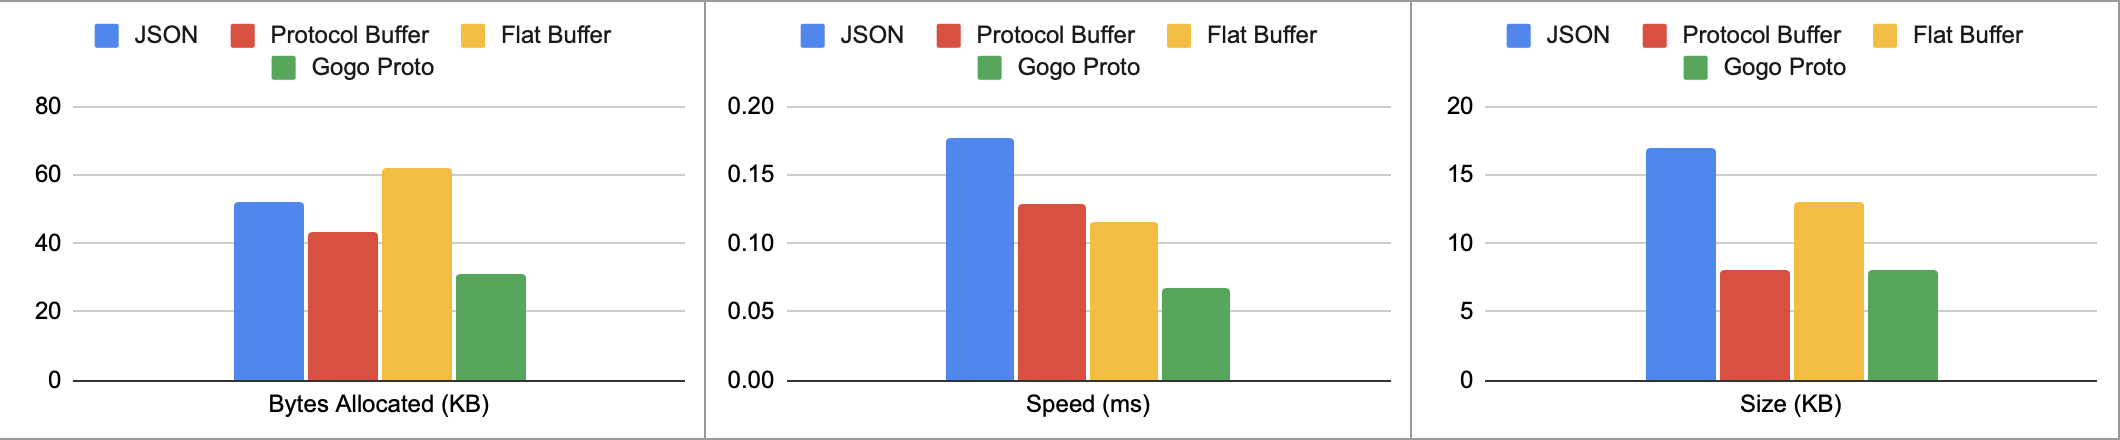
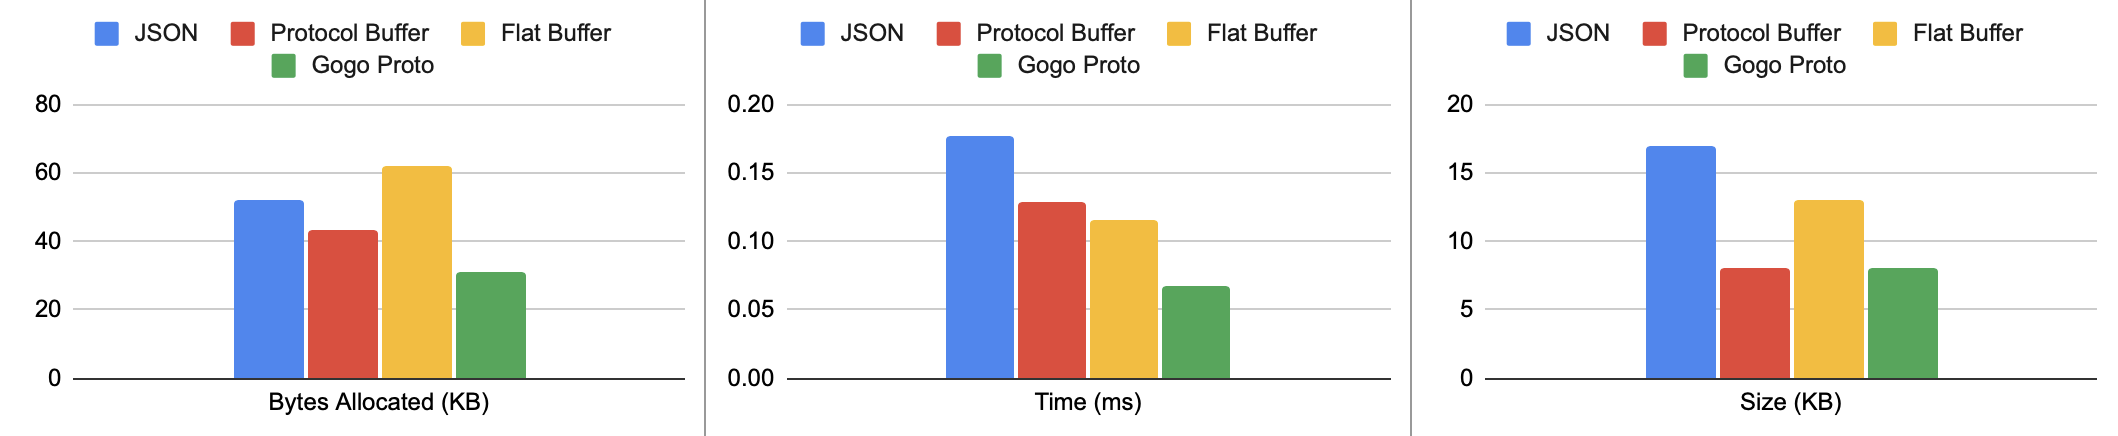
updating img resources

diff --git a/README.md b/README.md
@@ -35,7 +35,7 @@ For each scenario is run under 3 levels of complexity in a computer with cpu Int
 **Level 1**
 
 ```
-BenchmarkAllocationNativeL1-4             354464              3442 ns/op            1075 B/op         14 allocs/op
+BenchmarkAllocationJSONL1-4               354464              3442 ns/op            1075 B/op         14 allocs/op
 BenchmarkAllocationProtoL1-4              467773              2188 ns/op            1088 B/op         15 allocs/op
 BenchmarkAllocationFBSL1-4                697542              1690 ns/op            1304 B/op         10 allocs/op
 BenchmarkMarshalGogoProtoL1-4             1244660             944.4 ns/op           627 B/op          9 allocs/op
@@ -46,8 +46,8 @@ BenchmarkMarshalGogoProtoL1-4             1244660             944.4 ns/op       
 
 **Level 2**
 ```
-BenchmarkAllocationNativeL2-4               6504            177418 ns/op           52443 B/op        619 allocs/op
-BenchmarkAllocationProtoL2-4                9921            128793 ns/op           43157 B/op        717 allocs/op
+BenchmarkAllocationJSONL2-4                6504            177418 ns/op           52443 B/op        619 allocs/op
+BenchmarkAllocationProtoL2-4               9921            128793 ns/op           43157 B/op        717 allocs/op
 BenchmarkAllocationFBSL2-4                 10000            116492 ns/op           62473 B/op        326 allocs/op
 BenchmarkMarshalGogoProtoL2-4              17931             67348 ns/op           31112 B/op        433 allocs/op
 ```
@@ -58,7 +58,7 @@ BenchmarkMarshalGogoProtoL2-4              17931             67348 ns/op        
 **Level 3**
 
 ```
-BenchmarkAllocationNativeL3-4                 39          29045645 ns/op         9810394 B/op      84209 allocs/op
+BenchmarkAllocationJSONL3-4                   39          29045645 ns/op         9810394 B/op      84209 allocs/op
 BenchmarkAllocationProtoL3-4                  55          21001219 ns/op         6334196 B/op     103901 allocs/op
 BenchmarkAllocationFBSL3-4                    78          13158922 ns/op         8333920 B/op      42052 allocs/op
 BenchmarkMarshalGogoProtoL3-4                 104         11383685 ns/op         4968503 B/op      62899 allocs/op
@@ -71,7 +71,7 @@ BenchmarkMarshalGogoProtoL3-4                 104         11383685 ns/op        
 **Level 1**
 
 ```
-BenchmarkUnmarshalnNativeL1-4             134371             10778 ns/op            1000 B/op         26 allocs/op
+BenchmarkUnmarshalnJSONL1-4               134371             10778 ns/op            1000 B/op         26 allocs/op
 BenchmarkUnmarshalProtoL1-4               728599              1592 ns/op             733 B/op         13 allocs/op
 BenchmarkUnmarshalFBSL1-4                 510885903                2.365 ns/op           0 B/op          0 allocs/op
 BenchmarkUnmarshalGogoProtoL1-4           1863813               628.5 ns/op           528 B/op         11 allocs/op
@@ -82,7 +82,7 @@ BenchmarkUnmarshalGogoProtoL1-4           1863813               628.5 ns/op     
 **Level 2**
 
 ```
-BenchmarkUnmarshalnNativeL2-4              2886              353497 ns/op          32025 B/op       1000 allocs/op
+BenchmarkUnmarshalnJSONL2-4                2886              353497 ns/op          32025 B/op       1000 allocs/op
 BenchmarkUnmarshalProtoL2-4                13471             91999 ns/op           31446 B/op        705 allocs/op
 BenchmarkUnmarshalFBSL2-4                  444298354         2.490 ns/op           0 B/op            0 allocs/op
 BenchmarkUnmarshalGogoProtoL2-4            34784             34081 ns/op           22206 B/op        465 allocs/op
@@ -93,7 +93,7 @@ BenchmarkUnmarshalGogoProtoL2-4            34784             34081 ns/op        
 **Level 3**
 
 ```
-BenchmarkUnmarshalnNativeL3-4                 22          50498996 ns/op         5849893 B/op     148547 allocs/op
+BenchmarkUnmarshalnJSONL3-4                   22          50498996 ns/op         5849893 B/op     148547 allocs/op
 BenchmarkUnmarshalProtoL3-4                   78          14708673 ns/op         4989886 B/op     105029 allocs/op
 BenchmarkUnmarshalFBSL3-4                     527564692   2.248 ns/op             0 B/op          0 allocs/op
 BenchmarkUnmarshalGogoProtoL3-4               193         5784670 ns/op           3625775 B/op    64031 allocs/op
